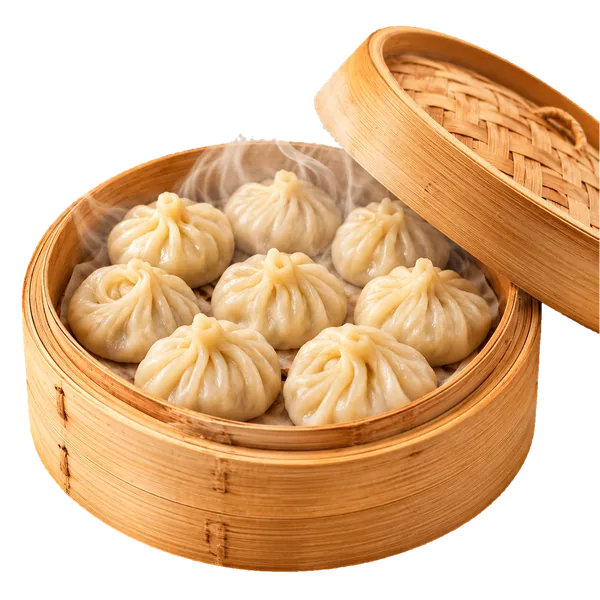
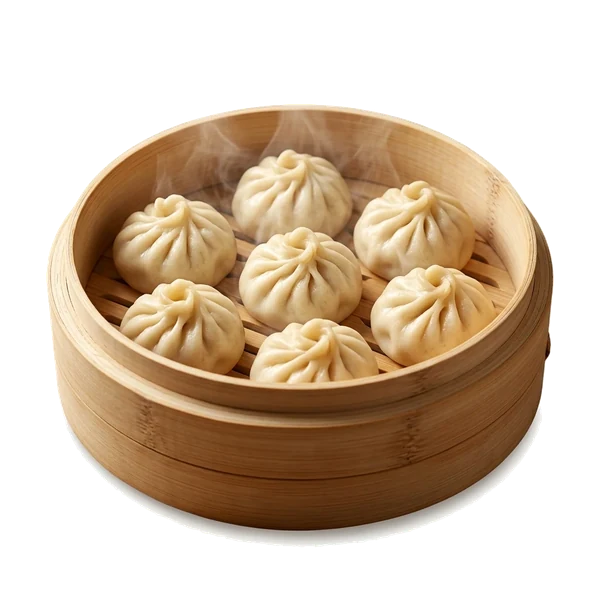
Replace hero cut-out with clean no-lid steamer; update manifest and Step 1d note
Claude-Session: https://claude.ai/code/session_01HEiHbuRHgxwEHR95CptpMX

diff --git a/docs/design/image-manifest.md b/docs/design/image-manifest.md
@@ -1,6 +1,6 @@
 # Image manifest
 
-Status: v1, 2026-11-10. All images are in `frontend/assets/img/` as WebP. Every one is **AI-generated** and is a mood placeholder until her real photos exist (decision D-017). Never present them as her real kitchen or her actual packs.
+Status: v2, 2026-11-10 (hero replaced). All images are in `frontend/assets/img/` as WebP. Every one is **AI-generated** and is a mood placeholder until her real photos exist (decision D-017). Never present them as her real kitchen or her actual packs.
 
 ## How each type must be used
 
@@ -12,7 +12,7 @@ Status: v1, 2026-11-10. All images are in `frontend/assets/img/` as WebP. Every 
 
 | File (+ smaller variant) | Size | Type | Where | Suggested alt text |
 |---|---|---|---|---|
-| `cutout-hero.webp` (+ `-600`) | 1200 x 1200 | cut-out | Hero panel | "A bamboo steamer of steamed momo, lid resting beside it" |
+| `cutout-hero.webp` (+ `-600`) | 1200 x 1200 | cut-out | Hero panel | "A bamboo steamer filled with freshly steamed momo" |
 | `cutout-momo.webp` (+ `-400`) | 800 x 800 | cut-out | Steps section; spare | "A single pleated momo" |
 | `cutout-chutney.webp` (+ `-400`) | 800 x 800 | cut-out | Chutney tile | "A clay bowl of red tomato chutney with a wooden spoon" |
 | `cutout-step-wrapper.webp` (+ `-300`) | 600 x 600 | cut-out | Steps: wrapper | "A thin round of dough" |
@@ -27,10 +27,10 @@ Variants named `-400`, `-300` and `-600` are the smaller sizes for `srcset`; the
 
 ## Known limits (do not hide these)
 
-1. **The hero lid is cut off by the right edge** of the image canvas: the lid extends past the frame in the source. Position the hero so its right edge sits flush with the panel or the viewport edge, or replace it with a regenerated hero (the lid and steamer fully inside the frame with margin).
+1. **Hero (replaced 2026-11-10):** open steamer, no lid, fully inside the frame with margin, no baked shadow. It has a very faint baked steam wisp inside the basket; the CSS wisps add more above it, so keep them subtle.
 2. **The two pack shots look almost the same** (same bag, tag and angle) and show roughly 9 to 12 momo, not 40. They are placeholders. The product name, size and price carry the difference. Replace both with real photos before launch.
 3. **Scenes are only 1024 px wide.** Show them in a framed or half-width container up to about their native width. Do not stretch them across a wide band; they will look soft. Regenerate at larger size if a wide banner is wanted.
-4. **No steam in the hero image**: the baked steam was removed with the old background. The CSS steam wisps provide it.
+4. **Steam:** only a faint baked wisp in the hero; the CSS steam wisps provide the rest.
 5. **The product `photo` field in the database** can point at an uploaded image later; these files are only the fallbacks for the seeded products.
 6. **Placeholder honesty:** keep the "photo coming soon" status in the report; add the real photos when she has them and remove these.
 

diff --git a/docs/instructions/step-1d-hybrid-premium.md b/docs/instructions/step-1d-hybrid-premium.md
@@ -45,7 +45,7 @@ How to cook, cart and done: same header and footer, the new palette, calm and fu
 
 ## Images (the biggest factor in how premium this looks)
 
-Premium comes mostly from photography. Wire these slots with transparent cut-outs in mind, `width` and `height`, `srcset`, lazy loading below the fold, honest alt text, and use `--shadow-card` where an image overlaps: hero (about 1200 by 1200), each product card (about 800 by 800 each, from the product's `photo`, falling back to a placeholder), chutney bowl (about 800 by 800), and kitchen (about 1200 by 800). **Placeholders must look intentional:** a tonal tile with a quiet single-stroke line drawing (momo, steamer, bowl) in sage on the tint, small and clearly a placeholder, not a flat grey box. **The images now exist:** they are already in `frontend/assets/img/`. Read `docs/design/image-manifest.md` first and follow it exactly: which files are cut-outs, which two pack shots need `mix-blend-mode: multiply` on a light tinted container, where each one goes, the suggested alt text, and the known limits (the hero lid is clipped on its right edge; the scenes are 1024 px wide). Wire these real files in place of the placeholders, keep the filenames, and delete placeholder files nothing refers to any more. Seed product `photo` values: `chicken-momo` uses `pack-chicken`, `veg-momo` uses `pack-veg`; the sauce pots keep the intentional placeholder until they have images. Report any asset you could not use as the manifest describes.
+Premium comes mostly from photography. Wire these slots with transparent cut-outs in mind, `width` and `height`, `srcset`, lazy loading below the fold, honest alt text, and use `--shadow-card` where an image overlaps: hero (about 1200 by 1200), each product card (about 800 by 800 each, from the product's `photo`, falling back to a placeholder), chutney bowl (about 800 by 800), and kitchen (about 1200 by 800). **Placeholders must look intentional:** a tonal tile with a quiet single-stroke line drawing (momo, steamer, bowl) in sage on the tint, small and clearly a placeholder, not a flat grey box. **The images now exist:** they are already in `frontend/assets/img/`. Read `docs/design/image-manifest.md` first and follow it exactly: which files are cut-outs, which two pack shots need `mix-blend-mode: multiply` on a light tinted container, where each one goes, the suggested alt text, and the known limits (the scenes are 1024 px wide; the hero is now a clean no-lid steamer). Wire these real files in place of the placeholders, keep the filenames, and delete placeholder files nothing refers to any more. Seed product `photo` values: `chicken-momo` uses `pack-chicken`, `veg-momo` uses `pack-veg`; the sauce pots keep the intentional placeholder until they have images. Report any asset you could not use as the manifest describes.
 
 ## Do not
 
